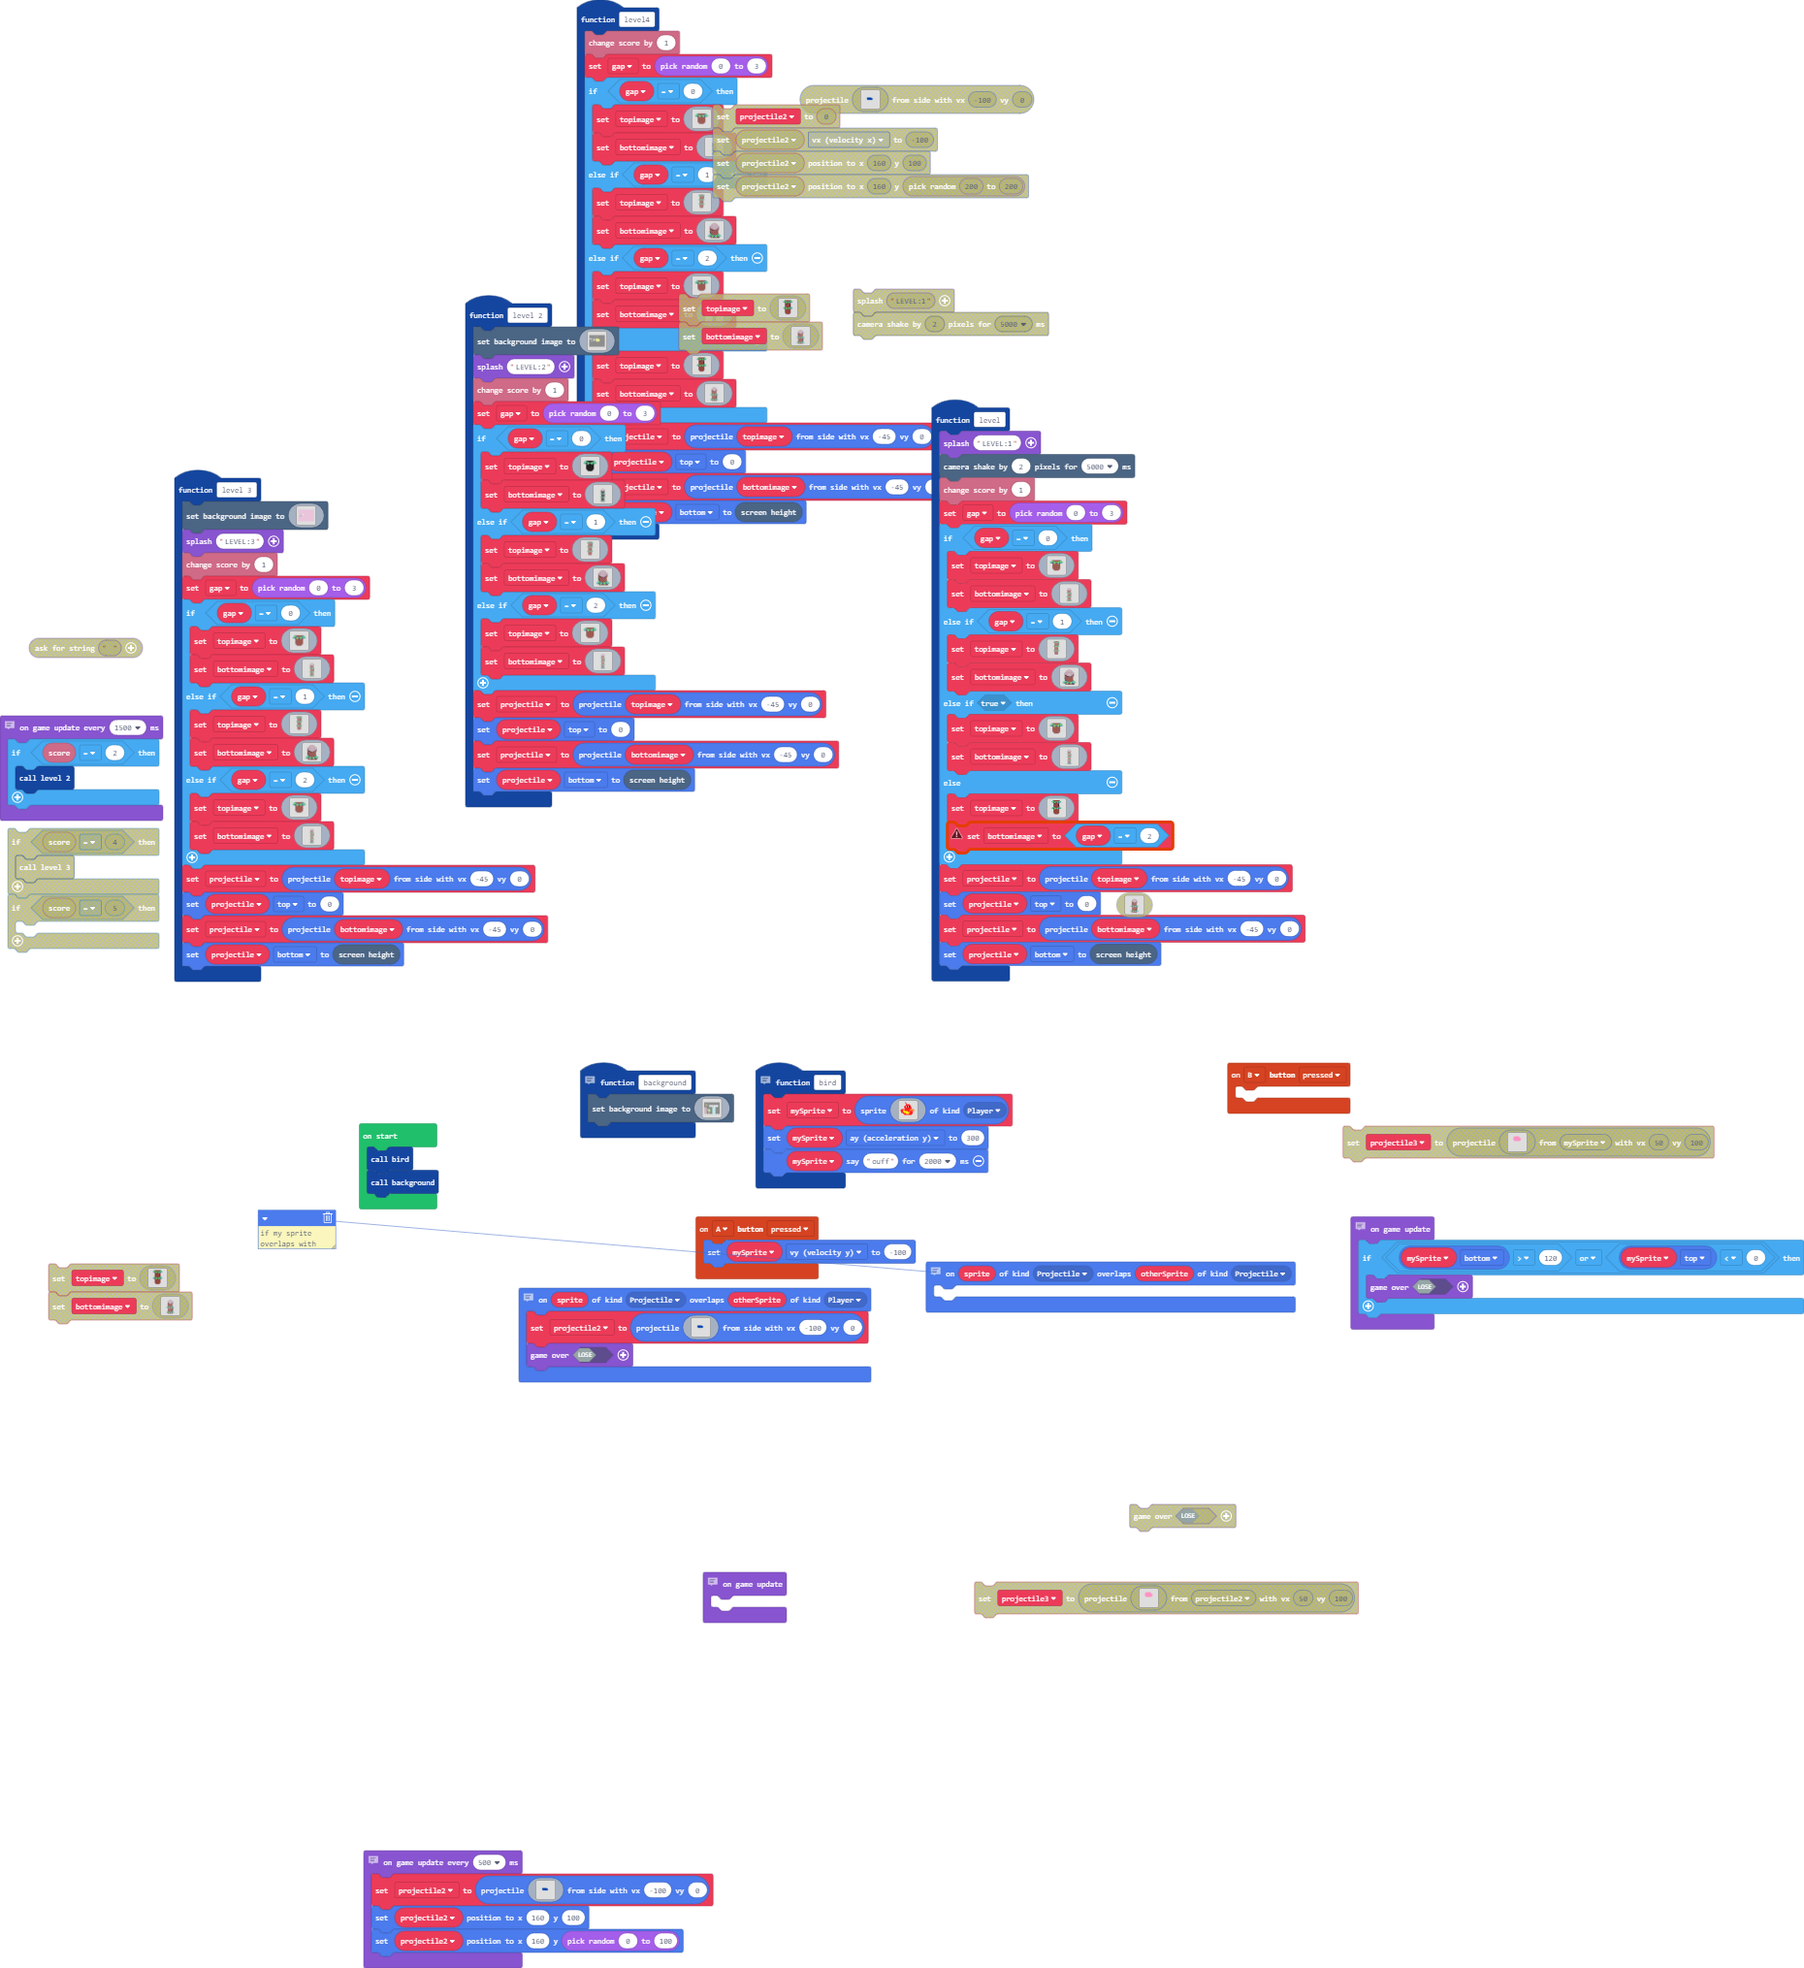
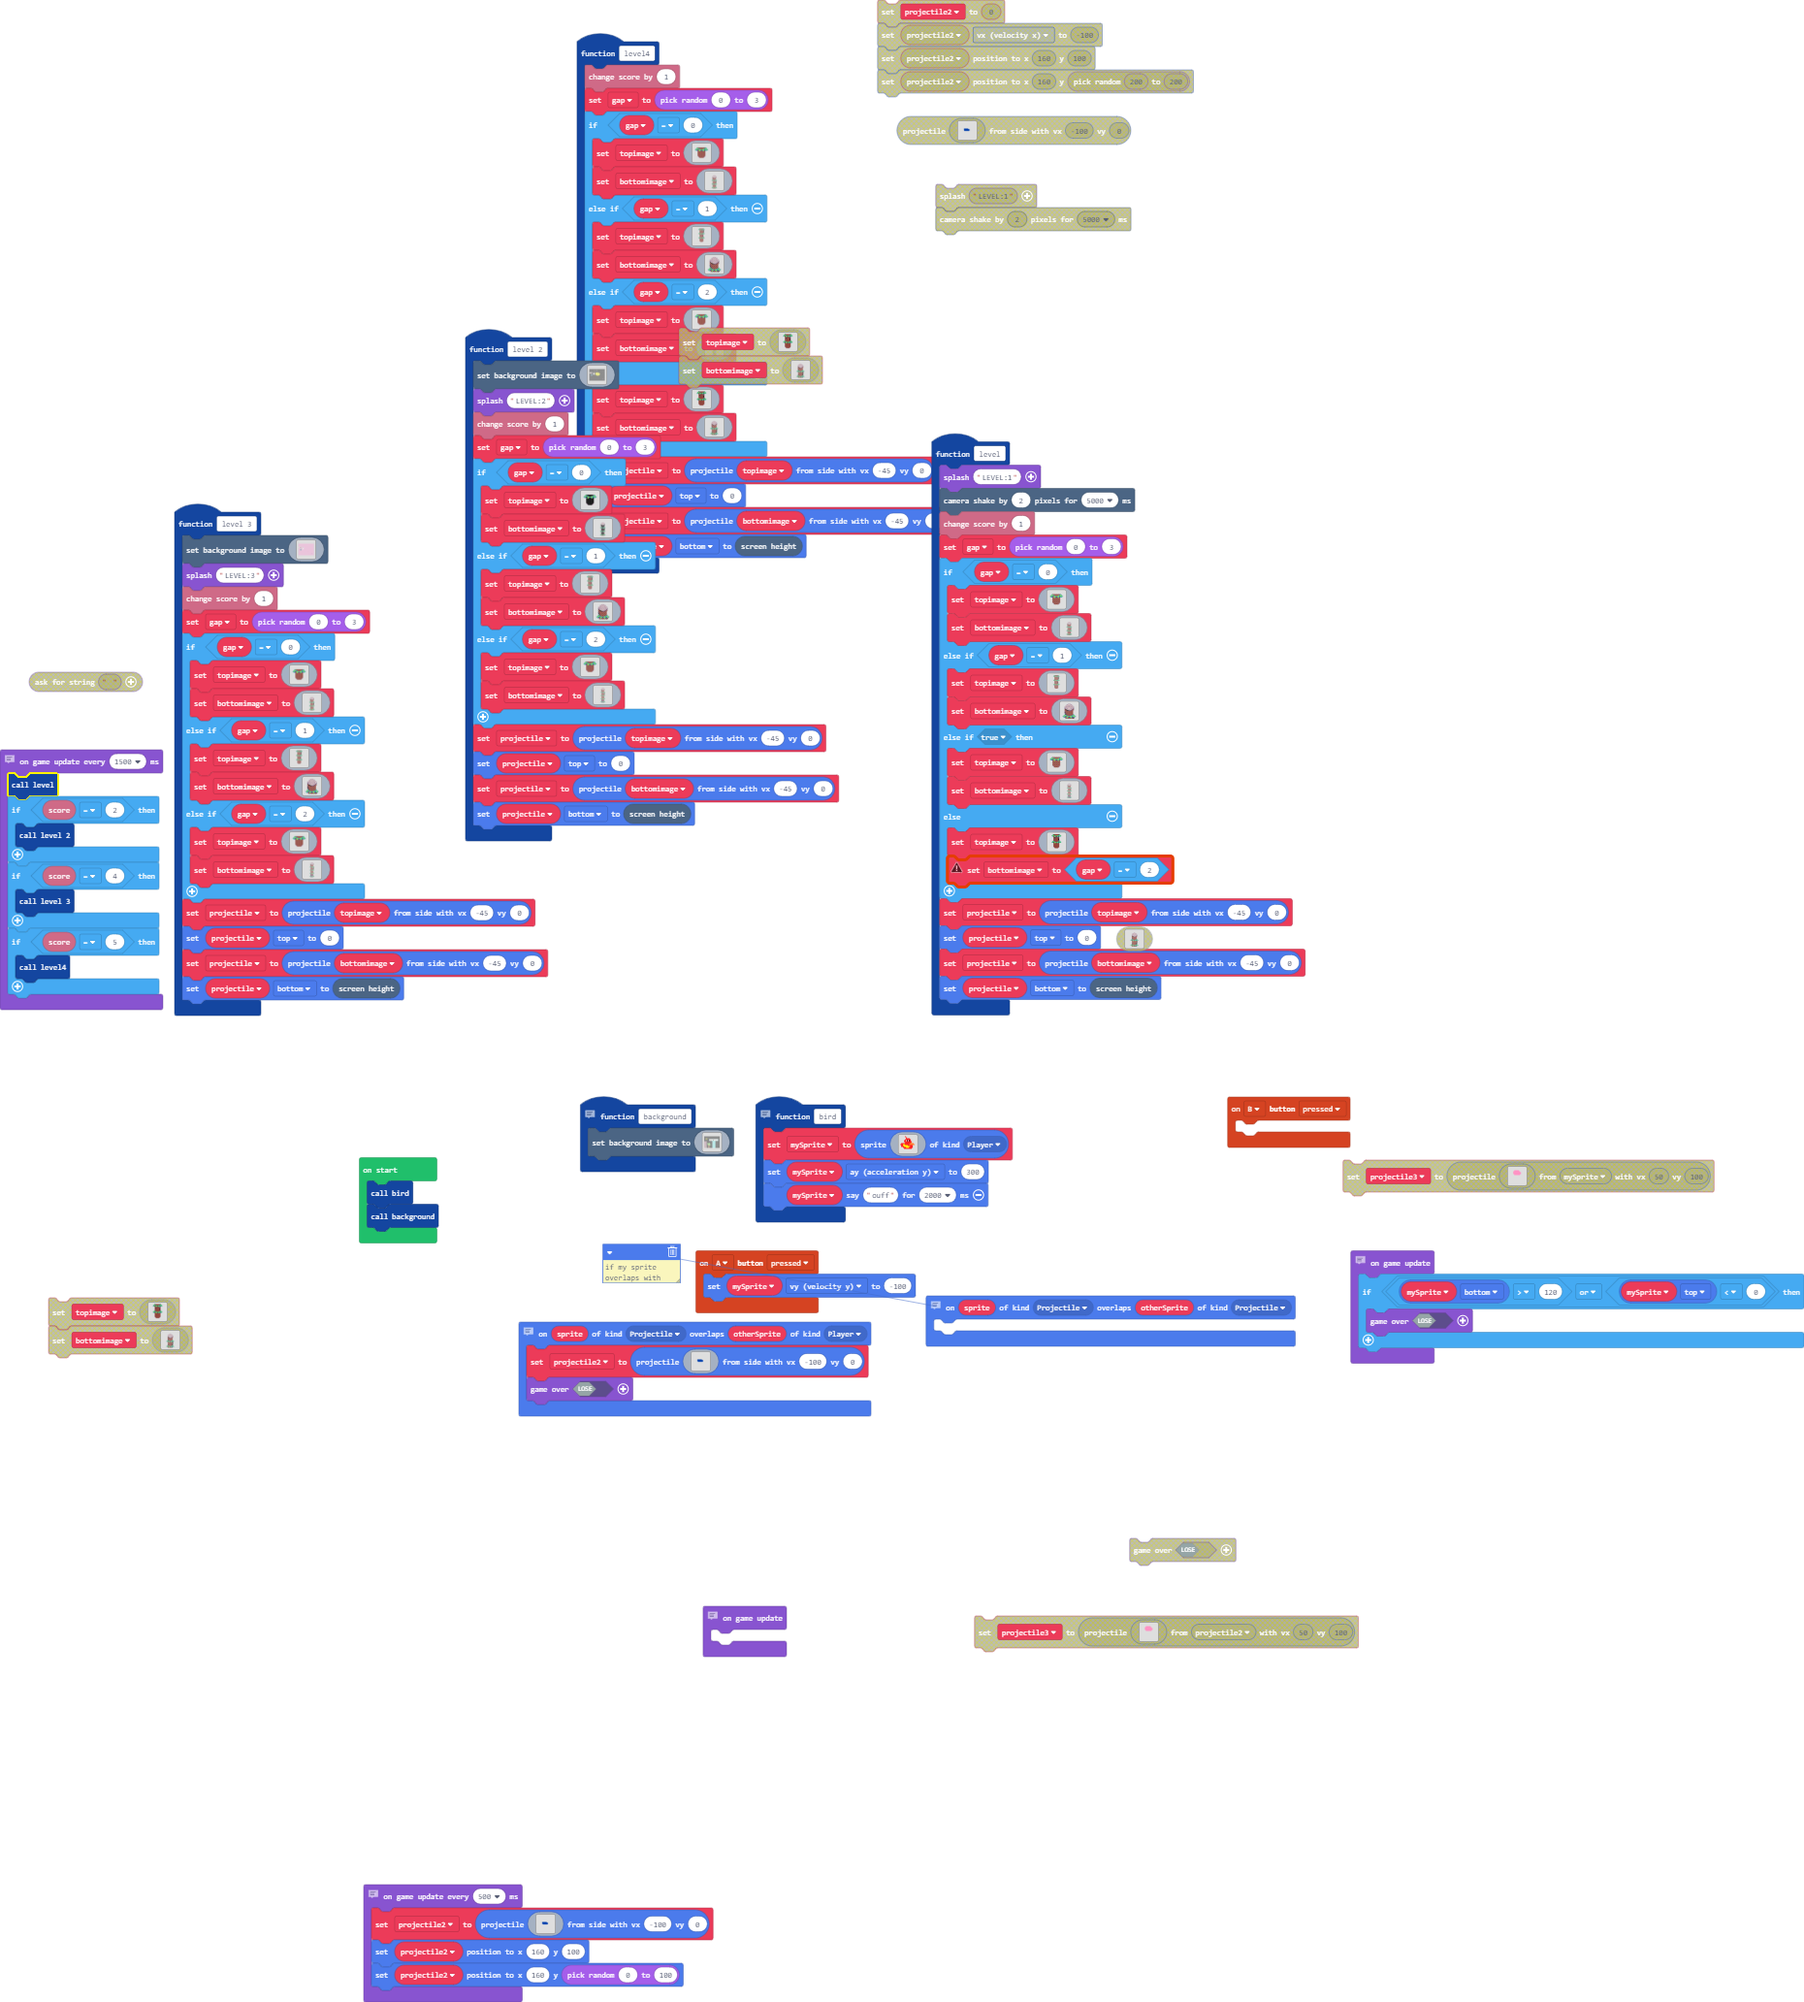
Update main.blocks, main.ts

diff --git a/main.ts b/main.ts
@@ -1562,8 +1562,15 @@ bird()
 background()
 // obsatcles for the game picks random 0 to 3
 game.onUpdateInterval(1500, function () {
+    level()
     if (info.score() == 2) {
         level_2()
+    }
+    if (info.score() == 4) {
+        level_3()
+    }
+    if (info.score() == 5) {
+        level4()
     }
 })
 // if sprite touches top or bottom of map you lose
